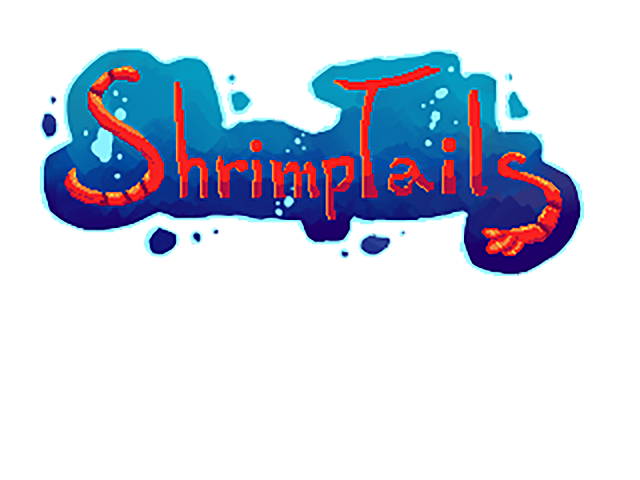
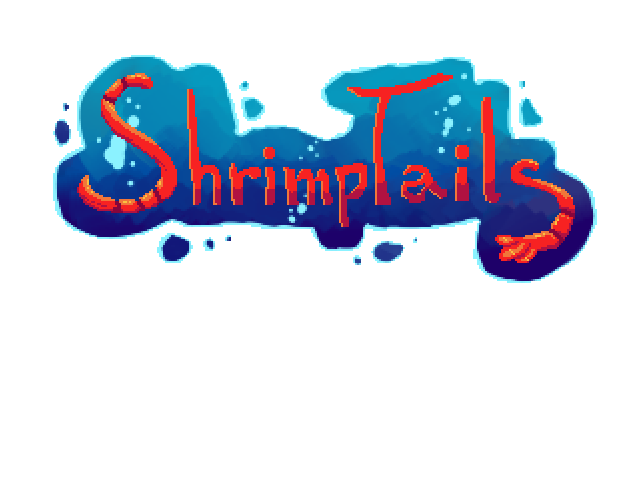
title texture fixed

Changed region(s): [[0.0625, 0.0938, 0.9375, 0.5938]]

diff --git a/src/scenes/Play.js b/src/scenes/Play.js
@@ -11,16 +11,18 @@ class Play extends Phaser.Scene{
         this.load.image('bag', './assets/plasticbag2.png');
         this.load.image('hook', './assets/hook2.png');
         // load animations
-        this.load.spritesheet('shrimpswim', './assets/shrimpanimated.png',
-                    {frameWidth: 100, frameHeight: 75, startFrame: 0, endFrame: 1});
+        this.load.spritesheet('shrimpswim', './assets/shrip.png',
+                    {frameWidth: 100, frameHeight: 75, startFrame: 0, endFrame: 2});
         this.load.spritesheet('eelwiggle', './assets/eelanimated.png', 
-                    {frameWidth: 87.5, frameHeight: 250, startFrame: 0, endFrame: 1});
+                    {frameWidth: 128, frameHeight: 376, startFrame: 0, endFrame: 1});
         this.load.spritesheet('trashfloat', './assets/plasticbag.png', 
-                    {frameWidth: 100, frameHeight: 100, startFrame: 0, endFrame: 1});
+                    {frameWidth: 80, frameHeight: 89, startFrame: 0, endFrame: 1});
         this.load.spritesheet('hookup', './assets/hook.png', 
                     {frameWidth: 35, frameHeight: 250, startFrame: 0, endFrame: 1});
         this.load.spritesheet('fishswim', './assets/fish.png', 
-                    {frameWidth: 100, frameHeight: 100, startFrame: 0, endFrame: 1});
+                    {frameWidth: 180, frameHeight: 82, startFrame: 0, endFrame: 1});
+        this.load.spritesheet('shrimpdie', './assets/shripdie.png', 
+                    {frameWidth: 100, frameHeight: 75, startFrame: 0, endFrame: 7});
     }
 
     create(){
@@ -40,7 +42,7 @@ class Play extends Phaser.Scene{
         // set up animations
         this.anims.create({
             key: 'shrimpmove',
-            frames: this.anims.generateFrameNumbers('shrimpswim', {start: 0, end: 1, first: 0}),
+            frames: this.anims.generateFrameNumbers('shrimpswim', {start: 0, end: 2, first: 0}),
             frameRate: 4,
             repeat: -1
         });
@@ -67,6 +69,11 @@ class Play extends Phaser.Scene{
             frames: this.anims.generateFrameNumbers('fishswim', {start: 0, end: 1, first: 0}),
             frameRate: 4,
             repeat: -1
+        });
+        this.anims.create({
+            key: 'shrimpdeath',
+            frames: this.anims.generateFrameNumbers('shrimpdie', {start: 0, end: 7, first: 0}),
+            frameRate: 9
         });
 
         this.pShrimp = new Shrimp(this, game.config.width-borderPadding-borderUISize, game.config.height/2, 'shrimp').setOrigin(1, 0);
@@ -96,15 +103,11 @@ class Play extends Phaser.Scene{
 
         this.scoreLeft = this.add.text(borderUISize+borderPadding, borderUISize+borderPadding*2, this.point, scoreConfig);
 
-        if(this.gameOver){
-            //gameover screen
-        }
+        // if(this.gameOver){
+        //     //gameover screen
+        // }
     }
     update(){
-        if(this.gameOver){
-            game.config.point = this.point;
-            this.scene.start("creditScene");
-        }
         if(!this.gameOver){
             this.bg.tilePositionX -= this.speed;
             this.fg.tilePositionX -= this.speed * 2;
@@ -128,17 +131,22 @@ class Play extends Phaser.Scene{
         }
         if(this.checkCollision(this.pShrimp, this.rockObs)){
             this.sound.play('chomp');
+            // this.shrimpDeath(this.pShrimp);
             this.gameOver = true;
         }if(this.checkCollision(this.pShrimp, this.eel)){
             this.sound.play('shock');
+            // this.shrimpDeath(this.pShrimp);
             this.gameOver = true;
         }if(this.checkCollision(this.pShrimp, this.bag)){
             this.sound.play('trash');
+            // this.shrimpDeath(this.pShrimp);
             this.gameOver = true;
         }if(this.checkCollision(this.pShrimp, this.rod)){
             this.sound.play('fishing');
+            // this.shrimpDeath(this.pShrimp);
             this.gameOver = true;
         }
+        
         /*if(this.checkAdj(this.eel, this.rockObs)){
             this.rockObs.reset();
         }if(this.checkAdj(this.eel, this.bag)){
@@ -146,7 +154,11 @@ class Play extends Phaser.Scene{
         }if(this.checkAdj(this.bag, this.rockObs)){
             this.rockObs.reset();
         }*/
-        
+        if(this.gameOver == true){
+            
+            game.config.point = this.point;
+            this.scene.start("creditScene");
+        }
     }
 
     checkCollision(shrimp, obs){
@@ -168,5 +180,20 @@ class Play extends Phaser.Scene{
         }else{
             return false;
         }
+    }
+    // just plays death animation at shrimp's location
+    shrimpDeath(shrimp) {
+        // temporarily hide shrimp
+        shrimp.alpha = 0;
+        // play death animation on location
+        let die = this.add.sprite(shrimp.x, shrimp.y, 'shrimpdie').setOrigin(0, 0); // create a sprite on location
+        die.anims.play('shrimpdeath'); // have sprite play the animation
+        die.on('animationcomplete', () => {
+            shrimp.reset();
+            shrimp.alpha = 1;
+            die.destroy();
+            this.gameOver = true;
+        });
+        
     }
 }
